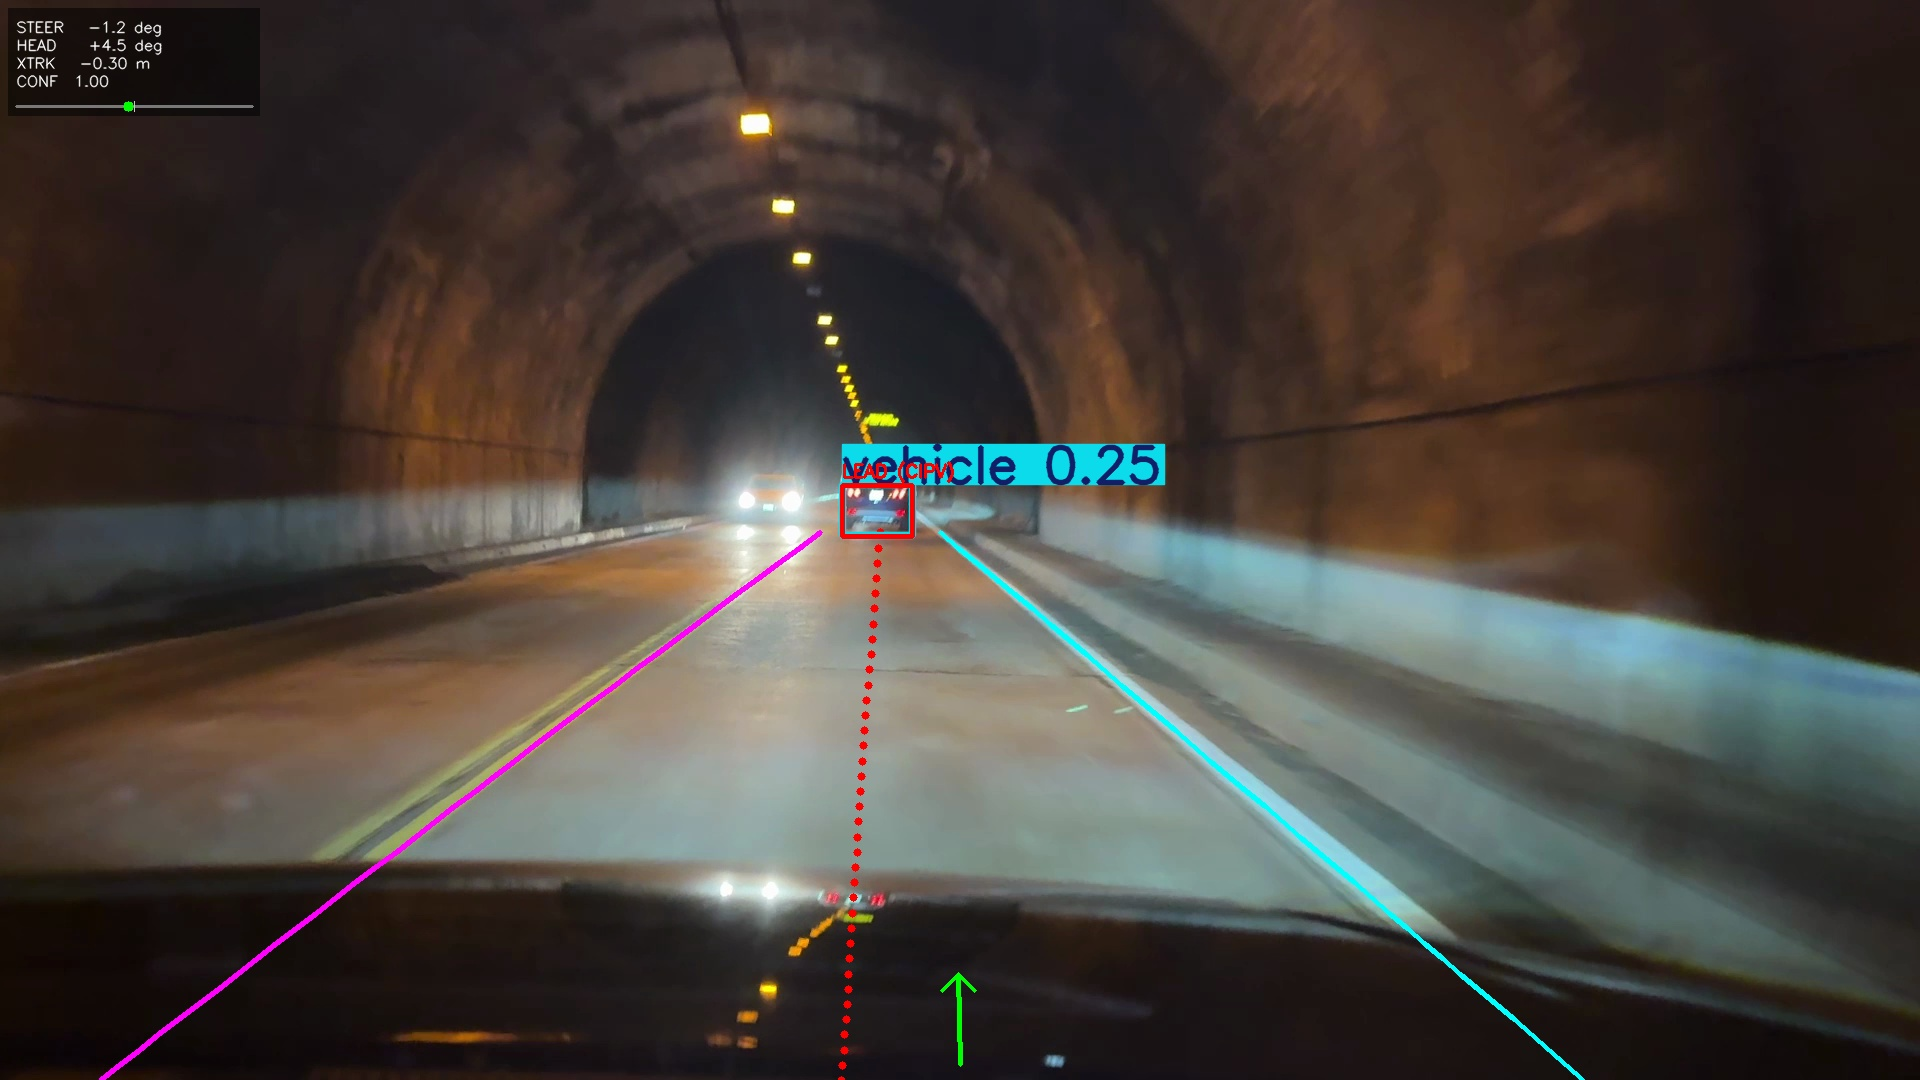
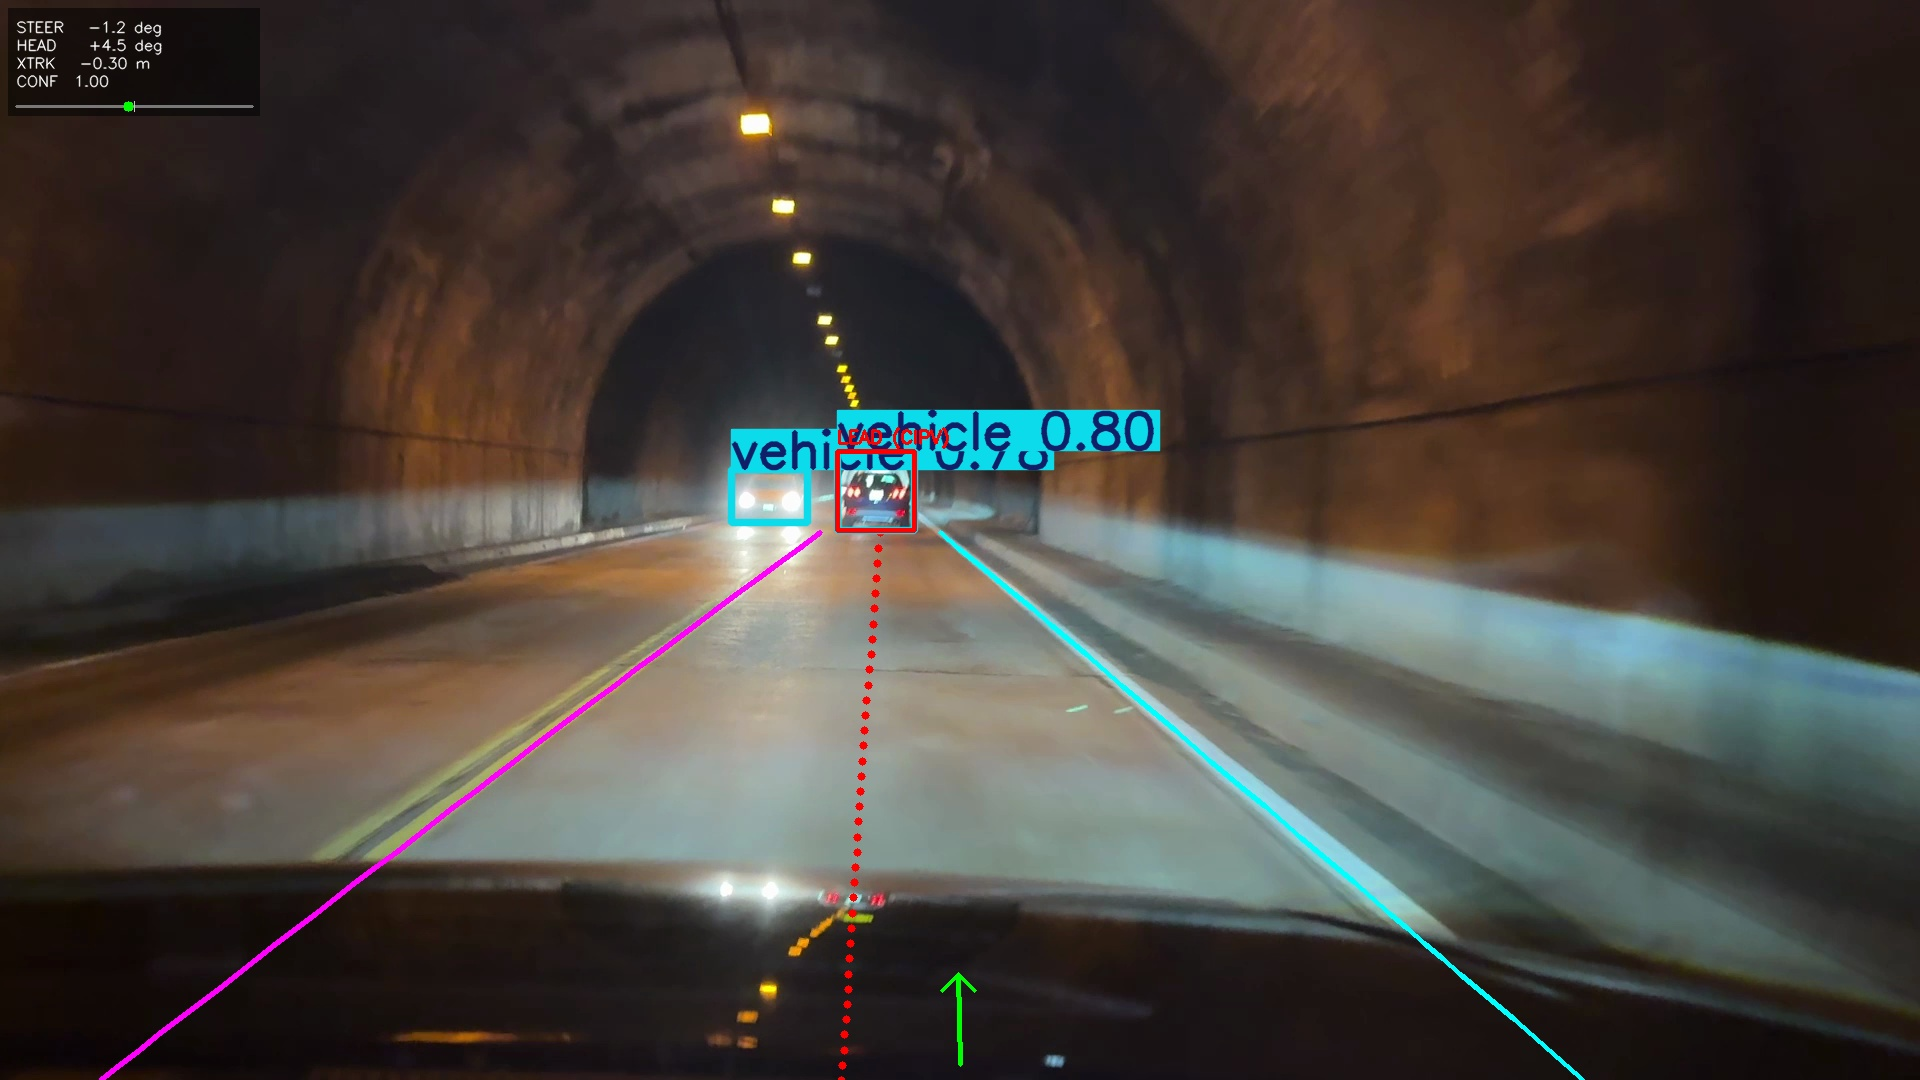
Update inference.py and run.log files: add new model paths and log details for video inference

Changed region(s): [[0.375, 0.3667, 0.625, 0.5194]]

diff --git a/LaneATT/inference.py b/LaneATT/inference.py
@@ -102,7 +102,9 @@ filesed = [Path("video_input") / Path('IMG_6540.MOV'), Path("video_input") / Pat
 # ]
 MODELSED = [
     # ("experiments/LaneATTresnet18Aug2/config.yaml", "experiments/LaneATTresnet18Aug2/models/model_0019.pt"),
-    ("experiments/LaneATTresnet34Aug2/config.yaml", "experiments/LaneATTresnet34Aug2/models/model_0013.pt", "/Users/amannindra/Projects/Auto/Autonomous-Bicycle/Yolov11/runs/yolo11n_coco45/weights/last.pt")
+     ("experiments/LaneATTresnet34Aug2/config.yaml", "experiments/LaneATTresnet34Aug2/models/model_0013.pt", "/Users/amannindra/Projects/Auto/Autonomous-Bicycle/Yolov11/runs/yolo11s_coco4_val3_new/run5/yolo11s_coco4.pt"),
+    ("experiments/LaneATTresnet34Aug2/config.yaml", "experiments/LaneATTresnet34Aug2/models/model_0013.pt", "/Users/amannindra/Projects/Auto/Autonomous-Bicycle/Yolov11/runs/yolo11m_coco4_val3_new/run5/yolo11m_coco4.pt"),
+    ("experiments/LaneATTresnet34Aug2/config.yaml", "experiments/LaneATTresnet34Aug2/models/model_0013.pt", "/Users/amannindra/Projects/Auto/Autonomous-Bicycle/Yolov11/runs/yolo11n_coco4_val3_new/run7/yolo11n_coco4.pt"),
     # ("experiments/LaneATTresnet50Aug2/config.yaml", "experiments/LaneATTresnet50Aug2/models/model_0015.pt"),
     # ("experiments/LaneATTresnet101Aug2/config.yaml", "experiments/LaneATTresnet101Aug2/models/model_0017.pt"),
     # ("experiments/LaneATTresnet152Aug2/config.yaml", "experiments/LaneATTresnet152Aug2/models/model_0015.pt" "/Users/amannindra/Projects/Auto/Autonomous-Bicycle/Yolov11/runs/yolo11n_coco45/weights/last.pt")
@@ -138,7 +140,7 @@ def video_inference(MODELS, files, frame_limit = 1000):
             
         model_times.append((f"{model_name}/{name}", time.perf_counter() - t_model))
 frame_limit = 1000
-# video_inference(MODELSED, filesed, frame_limit)
+video_inference(MODELSED, filesed, frame_limit)
 
 def image_inference(MODELS, files, frame):
    for config_path, path_model, path_yolo in MODELS:
@@ -159,7 +161,7 @@ def image_inference(MODELS, files, frame):
         print(f"ego_vehicle: {ego_vehicle}")
         
         
-image_inference(MODELSED, filesed, 200)
+# image_inference(MODELSED, filesed, 200)
         
 
 